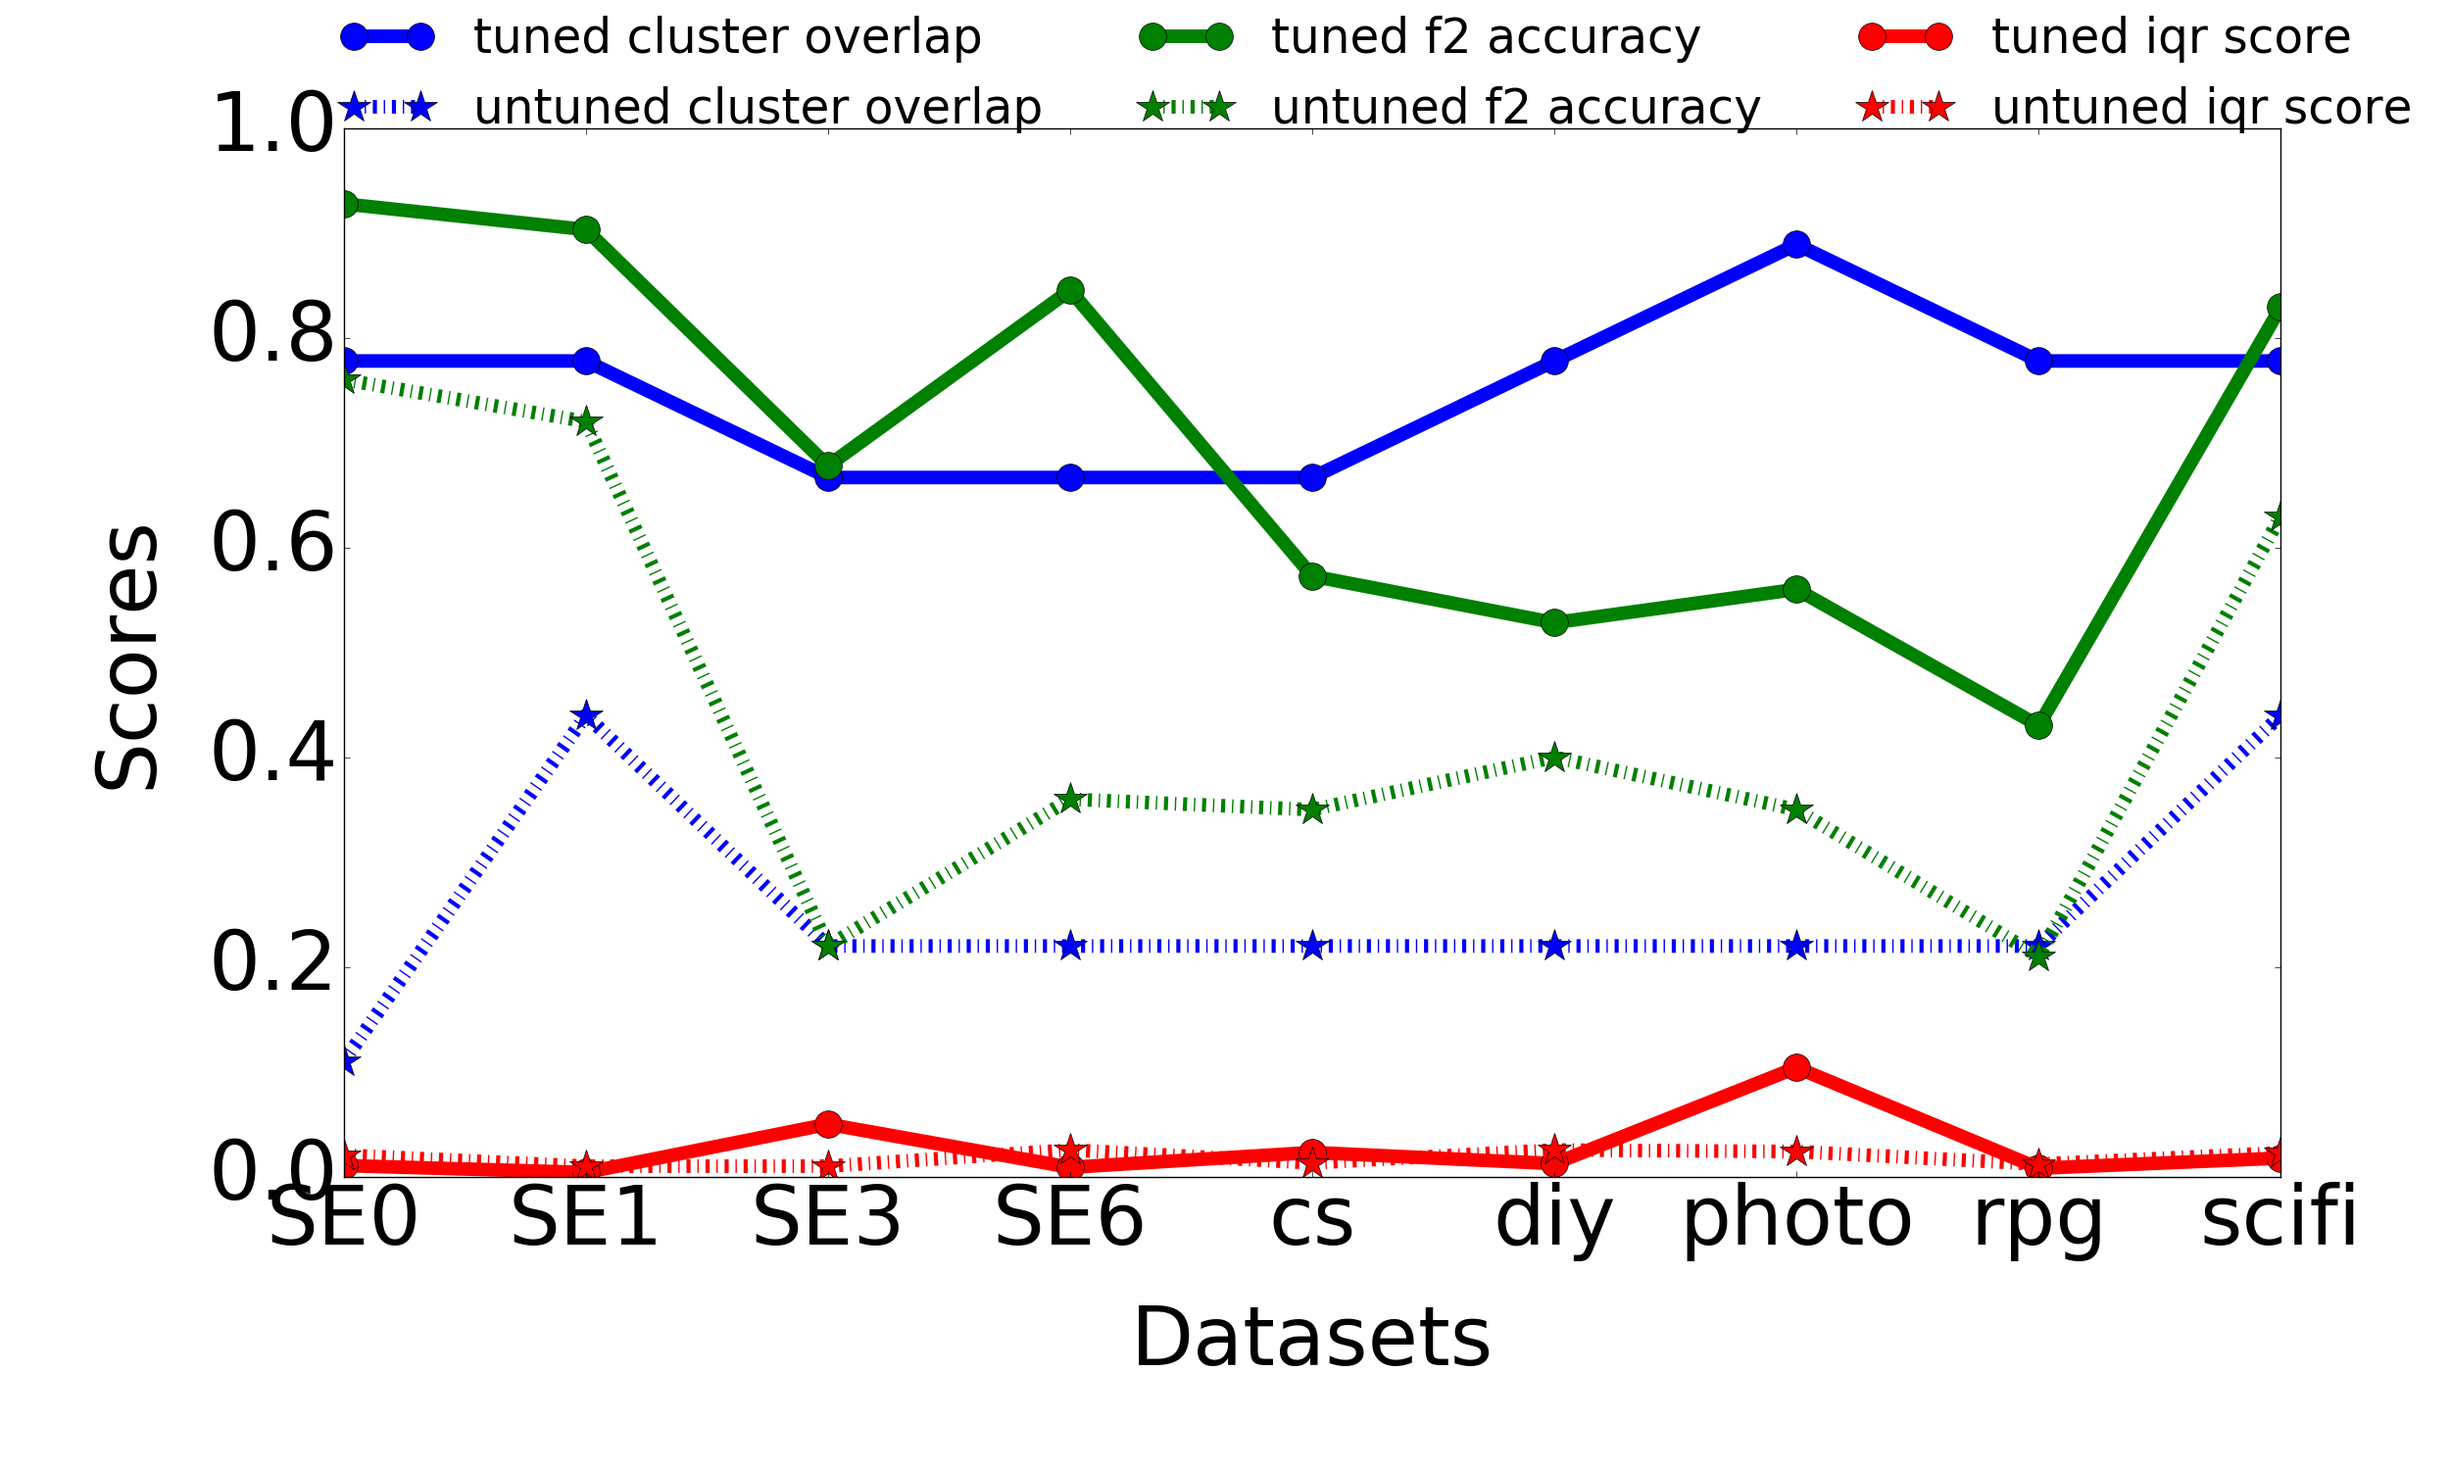
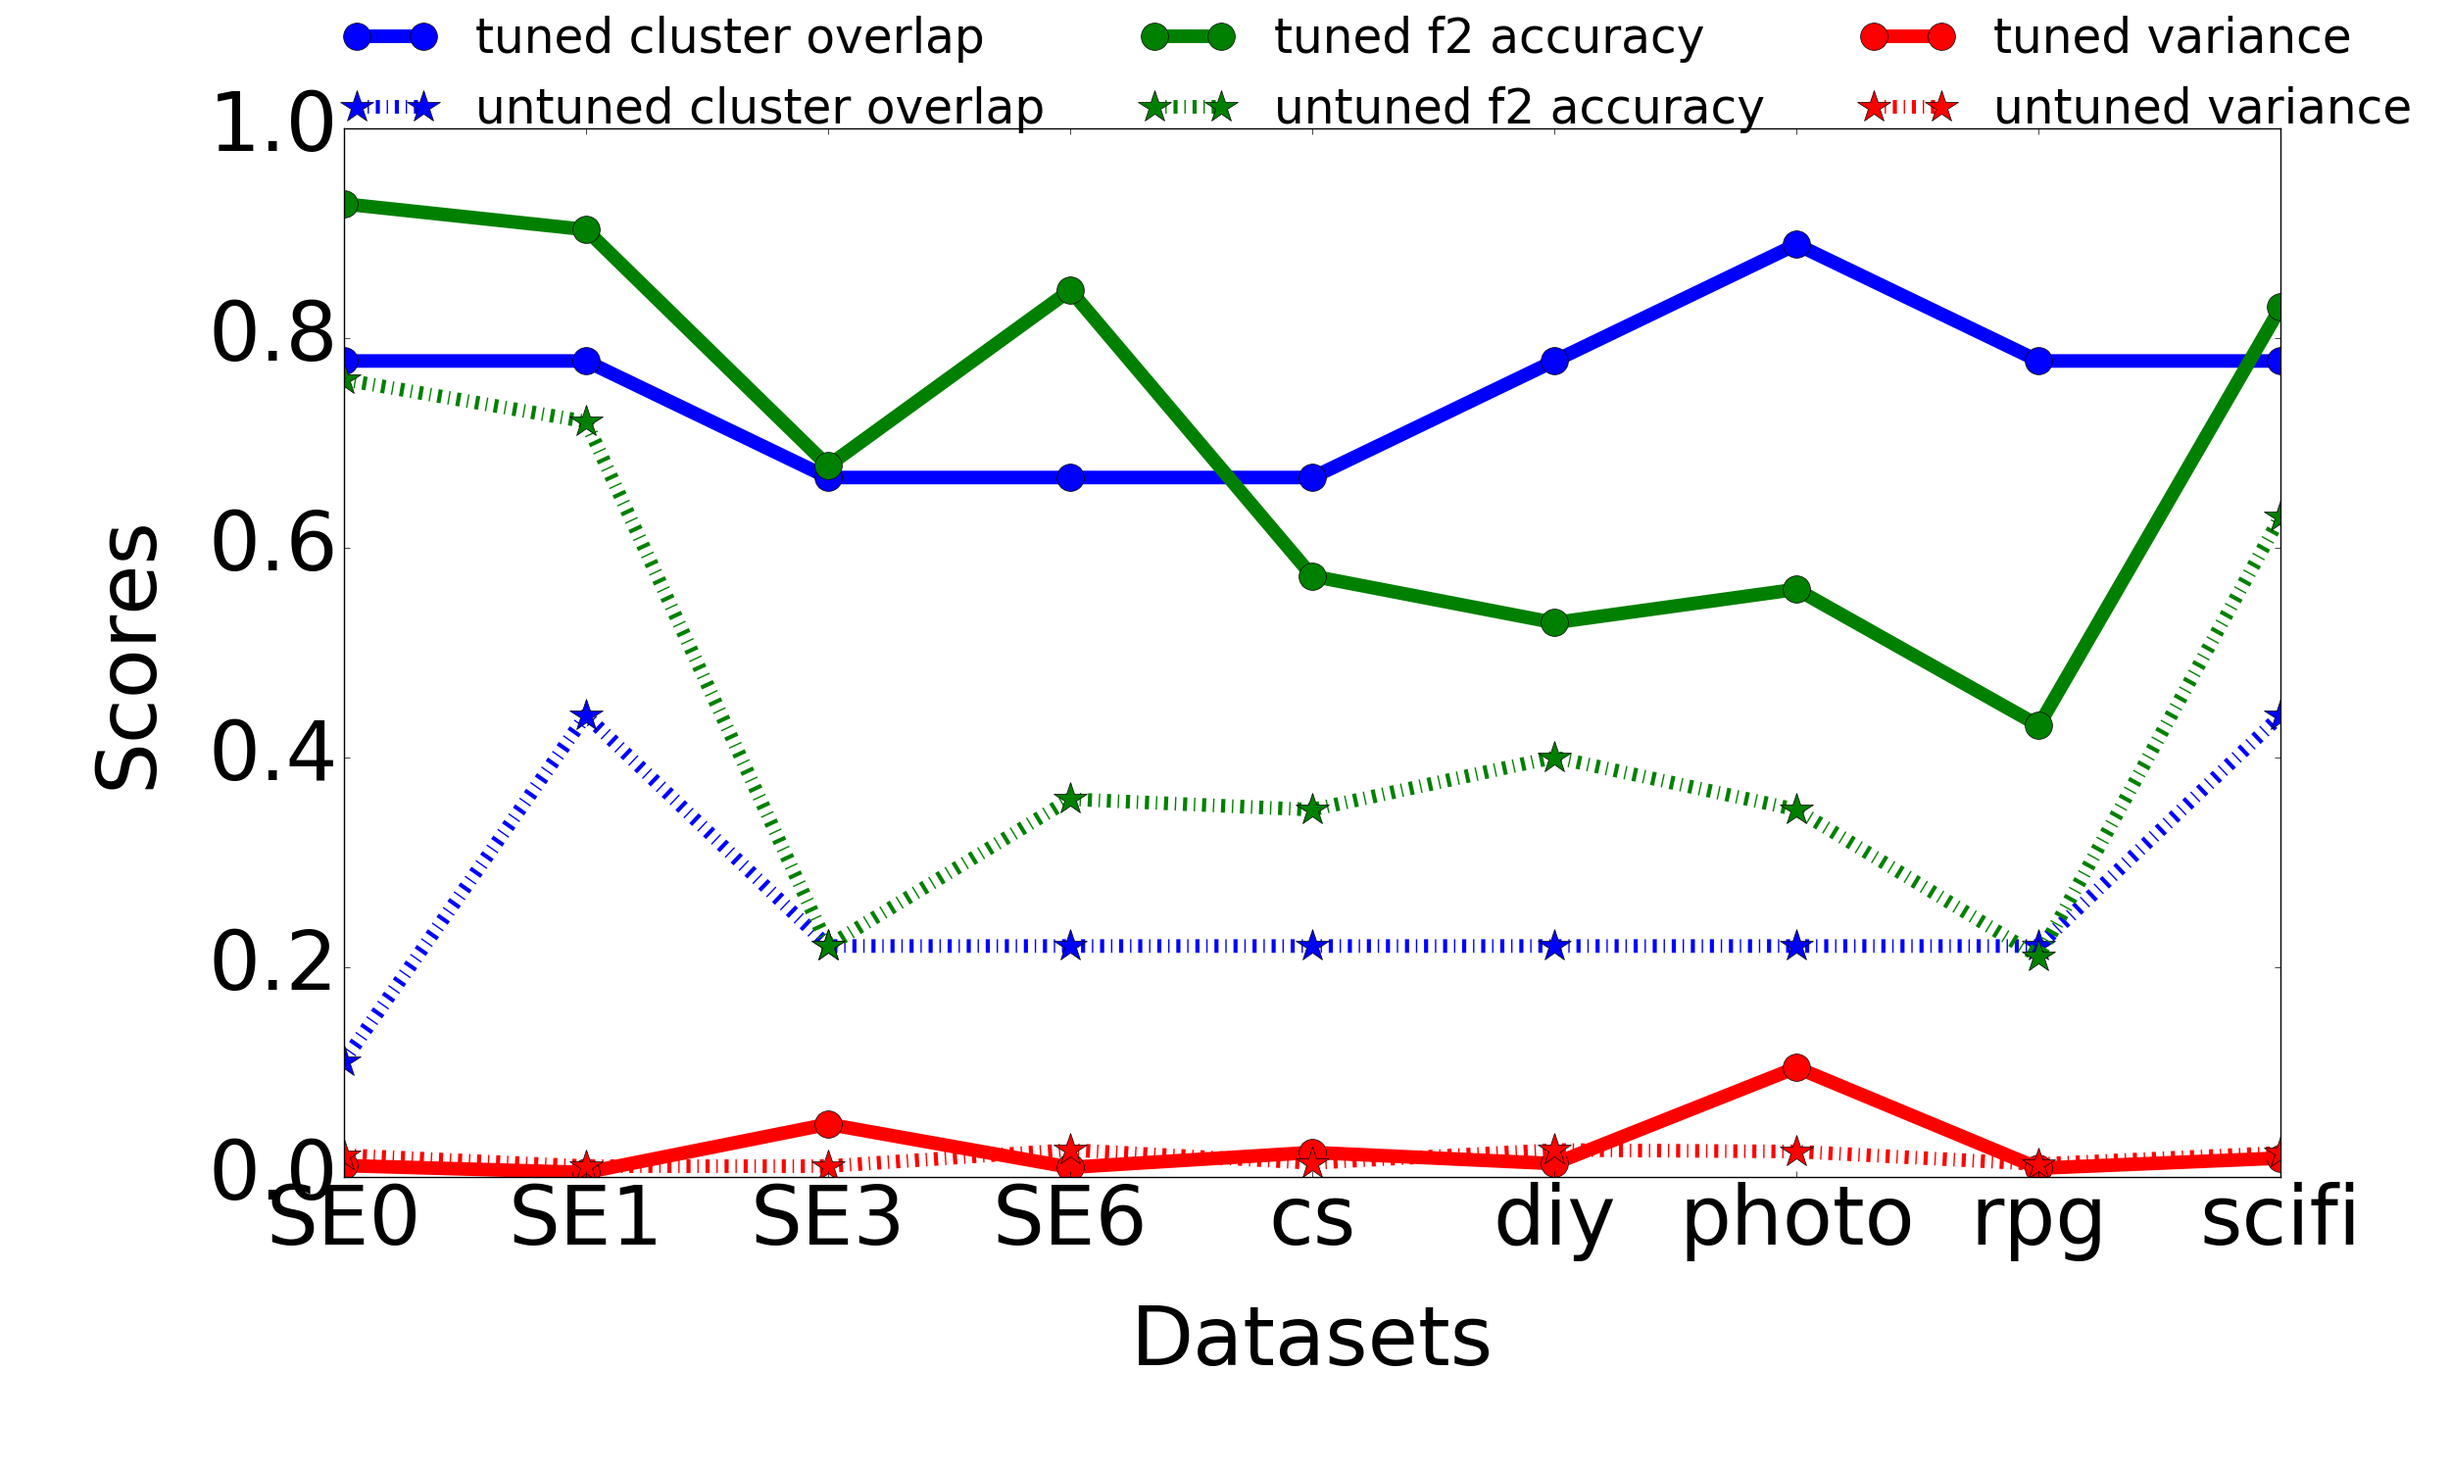
save

diff --git a/src/2016-10-11/draw.py b/src/2016-10-11/draw.py
@@ -7,7 +7,6 @@ import numpy as np
 import matplotlib.cm as cmx
 import matplotlib.colors as colors
 #tuned={'SE6': {7: [0.6666666666666666, [0.85345773874862785, 0.84972677595628399, 0.83425414364640893, 0.83833970507919175, 0.86216364634816023, 0.84487534626038774, 0.84750411409764126, 0.84675180455302612, 0.84787350054525623, 0.84983498349834985, 0.8388888888888888, 0.8342450765864331, 0.84574468085106391, 0.84017515051997804, 0.8476454293628809, 0.84347345132743368, 0.845771144278607, 0.82696506550218352, 0.84956709956709953, 0.85170893054024255, 0.83193746510329425, 0.84383561643835614, 0.8431163287086445, 0.82970620239390636, 0.84522502744237105]]}, 'SE3': {7: [0.6666666666666666, [0.57646498332539309, 0.72560596643878184, 0.59645620164711755, 0.72477350827866294, 0.68018406672418774, 0.73445431472081213, 0.67403001982441224, 0.6607991058955015, 0.64658634538152615, 0.69347319347319347, 0.67217317003702648, 0.66234498308906431, 0.59760956175298807, 0.69815195071868574, 0.65174825174825179, 0.7305095150399018, 0.69670916098428703, 0.60405202601300645, 0.67779680365296802, 0.71893399442206374, 0.68658892128279891, 0.64498644986449871, 0.67901234567901225, 0.68084499000856424, 0.59907834101382484]]}, 'SE1': {7: [0.7777777777777778, [0.8961017509084902, 0.89772543958703011, 0.90699208443271773, 0.90305444887118191, 0.89500162284972418, 0.90416803413193303, 0.90146405658825446, 0.90610097023515868, 0.90291583830351219, 0.90310906399078794, 0.90439488356838305, 0.90488771466314399, 0.89965680666775616, 0.90512271454455606, 0.90110070642352558, 0.90394088669950745, 0.90505183478690132, 0.90344714915863411, 0.89599609375, 0.90050894762764722, 0.90071731333550709, 0.9001797091978434, 0.90445650386449594, 0.90560182916870813, 0.90036411784177417]]}, 'SE0': {7: [0.7777777777777778, [0.93750000000000011, 0.92562651576394506, 0.94150641025641046, 0.92712550607287447, 0.91894060995184601, 0.932746196957566, 0.91828478964401294, 0.93900481540930969, 0.94301765650080249, 0.9241323648103309, 0.93145161290322576, 0.92758340113913762, 0.92369477911646569, 0.93525179856115104, 0.93924860111910469, 0.93042071197410992, 0.93446601941747576, 0.9257781324820431, 0.92283214001591107, 0.92457420924574207, 0.93424218123496394, 0.9269662921348315, 0.91885441527446299, 0.92532467532467555, 0.93775262732417153]]}, 'photo': {7: [0.8888888888888888, [0.48887122416534173, 0.52069716775599129, 0.4913294797687861, 0.61788617886178854, 0.59709821428571441, 0.59671805072103434, 0.50064460678985823, 0.52951780081117628, 0.6028368794326241, 0.60210876803551616, 0.4633420171194641, 0.57107231920199508, 0.60430463576158944, 0.48360987454471877, 0.62637362637362626, 0.56009615384615385, 0.54145899410965104, 0.60406370126304221, 0.5, 0.48631578947368415, 0.52304147465437778, 0.61344537815126043, 0.60729847494553368, 0.46566837107377657, 0.61153017241379315]]}, 'SE8': {7: [0.7777777777777778, [0.43410368519675202, 0.35856573705179284, 0.55647155812036275, 0.41099773242630389, 0.48771929824561405, 0.47766323024054985, 0.38704128440366975, 0.46706989247311831, 0.42942942942942947, 0.44494238156209986, 0.35823170731707316, 0.35480624056366378, 0.47043010752688175, 0.49295774647887325, 0.52839116719242896, 0.42007001166861141, 0.37866666666666665, 0.39341517857142866, 0.49890750182083027, 0.54882970137207421, 0.4392106938255888, 0.41966426858513189, 0.28973509933774838, 0.48616039744499645, 0.51291512915129156]]}, 'scifi': {7: [0.7777777777777778, [0.84257975034674071, 0.80457746478873238, 0.83189207886544436, 0.8198136002761478, 0.8401639344262295, 0.83390646492434672, 0.82490408092082312, 0.84641638225255977, 0.81510232886379663, 0.81749049429657805, 0.82986111111111116, 0.84362139917695467, 0.82291666666666663, 0.82470669427191179, 0.81895033462486799, 0.83763329893360849, 0.84252239834596832, 0.81081081081081074, 0.82932692307692324, 0.83131697200138255, 0.82957306490801797, 0.82752613240418127, 0.8241188666205943, 0.81399376515413924, 0.83852005532503449]]}, 'rpg': {7: [0.7777777777777778, [0.42140468227424749, 0.43898263634140372, 0.42896362388469456, 0.43220906857270497, 0.42825848849945231, 0.42997262773722628, 0.42869935079471688, 0.43920480813684692, 0.43493718890732391, 0.42091559991321326, 0.4409584980237154, 0.42480790340285407, 0.4301319981793354, 0.4327030033370412, 0.42635658914728686, 0.43378471425292631, 0.44342137145626365, 0.42202227934875741, 0.43429594806357741, 0.42175239755884919, 0.42123361272297438, 0.43734421028778608, 0.43152396093572565, 0.42616334283000956, 0.4334793636154024]]}, 'cs': {7: [0.6666666666666666, [0.57268722466960353, 0.55463576158940409, 0.5721258134490238, 0.58057514921323927, 0.583288117200217, 0.55249999999999999, 0.57288712422007948, 0.58278867102396514, 0.57135046473482787, 0.57135193133047213, 0.57885906040268453, 0.54640718562874258, 0.57300275482093677, 0.58071390516782095, 0.56830309498399145, 0.49825935596170579, 0.57279909706546273, 0.54076086956521741, 0.55882352941176472, 0.58028169014084507, 0.57629870129870131, 0.55643879173290944, 0.53870292887029292, 0.58463251670378602, 0.57963163596966405]]}, 'diy': {7: [0.7777777777777778, [0.52874067573497152, 0.53306342780026994, 0.52827707145988601, 0.52053486150907347, 0.52231937413713758, 0.51532033426183854, 0.52914798206278024, 0.54484304932735428, 0.51806704397039616, 0.51546391752577314, 0.52485004284490155, 0.53521126760563376, 0.53176470588235303, 0.51996489688459846, 0.52843708016121815, 0.50398992020159594, 0.53671003717472121, 0.52078774617067836, 0.55000000000000004, 0.53755868544600938, 0.52873563218390807, 0.5239520958083832, 0.53462081959491292, 0.50994498518831988, 0.52346570397111924]]}}
-#untuned={'SE6': {40: (0.1111111111111111, 0.80398162327718214), 80: (0.1111111111111111, 0.84236186348862419), 10: (0.2222222222222222, 0.51759133964817328), 20: (0.2222222222222222, 0.46676514032496302), 200: (0.1111111111111111, 0.77727529677784069)}, 'SE3': {40: (0.1111111111111111, 0.50411305631723269), 80: (0.1111111111111111, 0.62613902629523555), 10: (0.2222222222222222, 0.1785850568572083), 20: (0.1111111111111111, 0.32262493135639758), 200: (0.1111111111111111, 0.68641830448811969)}, 'SE0': {40: (0.1111111111111111, 0.92874299439551633), 80: (0.2222222222222222, 0.90573770491803285), 10: (0.2222222222222222, 0.93059936908517349), 20: (0.3333333333333333, 0.93461538461538451), 200: (0.2222222222222222, 0.85749792874896436)}, 'photo': {40: (0.2222222222222222, 0.40608341172781431), 80: (0.1111111111111111, 0.41666666666666669), 10: (0.2222222222222222, 0.51647010980073205), 20: (0.1111111111111111, 0.61421850496602193), 200: (0.2222222222222222, 0.41649569142388176)}, 'SE8': {40: (0.2222222222222222, 0.30607685433422699), 80: (0.2222222222222222, 0.35621424856994277), 10: (0.3333333333333333, 0.12853236098450321), 20: (0.2222222222222222, 0.26644615950018374), 200: (0.1111111111111111, 0.56542810985460423)}, 'scifi': {40: (0.2222222222222222, 0.79775631037706451), 80: (0.1111111111111111, 0.8725289706884799), 10: (0.4444444444444444, 0.62699778706663389), 20: (0.3333333333333333, 0.75369738339021619), 200: (0.1111111111111111, 0.86115992970123023)}, 'rpg': {40: (0.1111111111111111, 0.21421770866391623), 80: (0.1111111111111111, 0.23935167734640034), 10: (0.1111111111111111, 0.47355639503507824), 20: (0.1111111111111111, 0.22540983606557377), 200: (0.1111111111111111, 0.23198792908336474)}, 'cs': {40: (0.1111111111111111, 0.28697001034126163), 80: (0.1111111111111111, 0.57906458797327398), 10: (0.2222222222222222, 0.40335151987529222), 20: (0.4444444444444444, 0.24137931034482754), 200: (0.2222222222222222, 0.28933680104031206)}, 'diy': {40: (0.1111111111111111, 0.60411311053984573), 80: (0.1111111111111111, 0.6017897091722596), 10: (0.2222222222222222, 0.4819672131147541), 20: (0.1111111111111111, 0.48838923700700326), 200: (0.1111111111111111, 0.6351706036745407)}}
 #untuned={'cs': {10: {7: (0.67, 0.53), 10: (0.22, 0.35)}},'diy': {10: {7: (0.78, 0.44), 10: (0.22, 0.40)}},'photo': {10: {7: (0.56, 0.32), 10: (0.22, 0.35)}},'rpg': {10: {7: (0.89, 0.47), 10: (0.22, 0.21)}},'scifi': {10: {7: (0.89, 0.61), 10: (0.44, 0.63)}},'SE0': {10: {7: (0.89, 0.92), 10: (0.11, 0.93)}},'SE1': {10: {7: (0.89, 0.80), 10: (0.44, 0.89)}},'SE3': {10: {7: (0.89, 0.17), 10: (0.22, 0.22)}},'SE6': {10: {7: (0.78, 0.31), 10: (0.22, 0.36)}},'ux': {10: {7: (0.56, 0.16), 10: (0.11, 0.15)}}}
 #'SE8': {10: {7: (0.56, 0.16), 10: (0.11, 0.15)}},
 if __name__ == '__main__':
@@ -55,13 +54,14 @@ if __name__ == '__main__':
         Y_untuned_f.append(untuned[file1][10][10][1])
     #print(Y_untuned_raw)
     print(Y_tuned_iqr)
-
+    #plt.title("Tuning improves Clustering and Classification from StackExchange websites")
+    #plt.title("Tuning")
     line,=plt.plot(X, Y_tuned_raw, marker='o', markersize=20, label='tuned cluster overlap')
     plt.plot(X, Y_untuned_raw,linestyle="-.", marker='*',markersize=25,color=line.get_color(),label='untuned cluster overlap')
     line, = plt.plot(X, Y_tuned_f, marker='o', markersize=20, label='tuned f2 accuracy')
     plt.plot(X, Y_untuned_f, linestyle="-.", marker='*',markersize=25, color=line.get_color(), label='untuned f2 accuracy')
-    line, = plt.plot(X, Y_tuned_iqr, marker='o', markersize=20, label='tuned iqr score')
-    plt.plot(X, Y_untuned_iqr, linestyle="-.", marker='*',markersize=25, color=line.get_color(), label='untuned iqr score')
+    line, = plt.plot(X, Y_tuned_iqr, marker='o', markersize=20, label='tuned variance')
+    plt.plot(X, Y_untuned_iqr, linestyle="-.", marker='*',markersize=25, color=line.get_color(), label='untuned variance')
         #plt.ytext(0.04, 0.5, va='center', rotation='vertical', fontsize=11)
         #plt.text(0.04, 0.5,"Rn (Raw Score)", labelpad=100)
     plt.ylim(0.0, 1.0)
